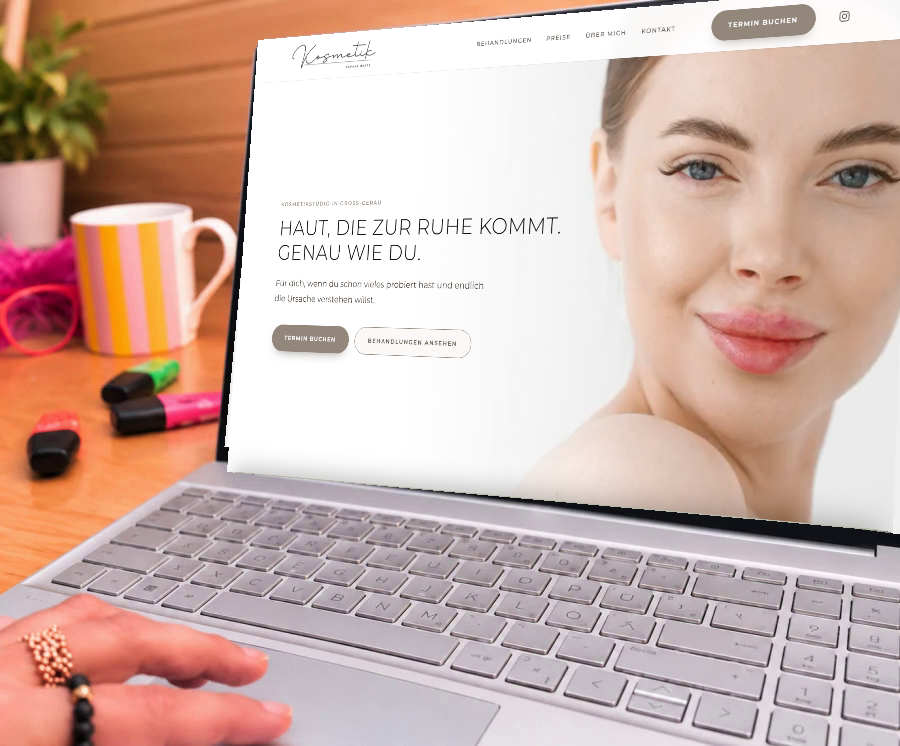
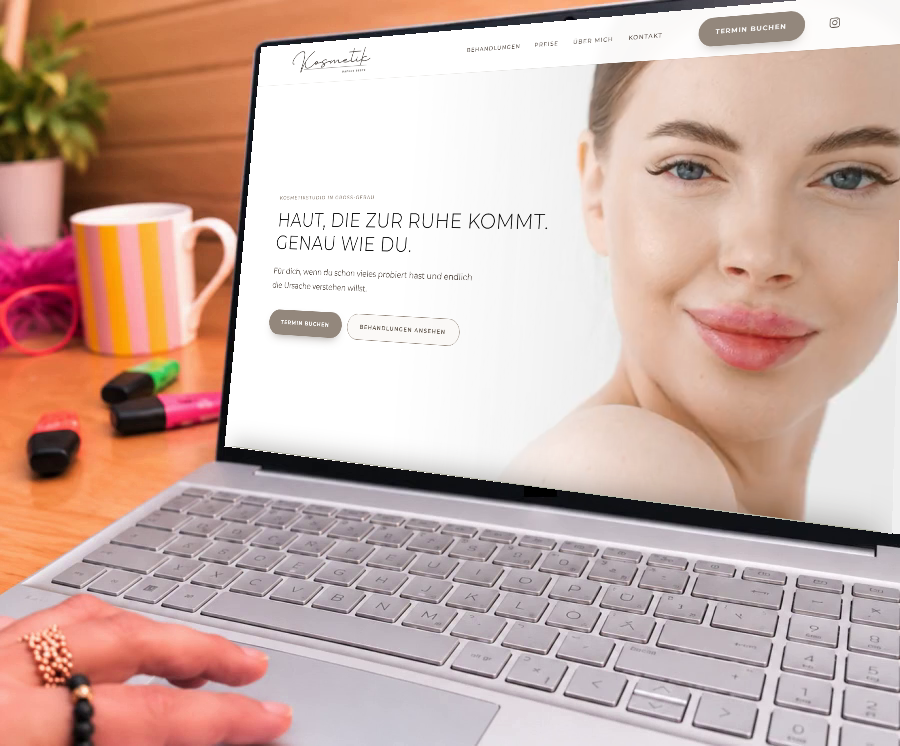
Daphne: Geschafft, Laptop, Danke (ohneZahlen), Laptop-Bild gerade eingepasst

diff --git a/daphne/index.html b/daphne/index.html
@@ -16,7 +16,7 @@
 /* ============================================================
    DAPHNE BESTE  ·  KOSMETIK DAPHNE BESTE
    Stand 23.10.2026, von Simone freigegeben.
-   Abgespeckt ohne Folie 4, Schlusswort B freigegeben. Offen: Datum = Umstell-Tag prüfen.
+   Abgespeckt: Geschafft → Laptop → Danke, Schlusswort B freigegeben. Offen: Datum = Umstell-Tag prüfen.
    ============================================================ */
 
 window.KUNDIN = {
@@ -67,12 +67,14 @@ window.KUNDIN = {
   /* Abgespeckt (Simone 23.10.2026): keine Folie 4 mit Ausblick,
      Daphne will selbst pflegen und nichts dazubuchen. */
   ohneAusblick: true,
+  /* Auch ohne Zahlen-Folie (Simone 23.10.): Geschafft → Laptop → Danke */
+  ohneZahlen: true,
 
   /* SCHLUSSWORT: Fassung B, von Simone gewählt 23.10.2026 */
   schlusswort: 'Danke für dein Vertrauen, Daphne!\nGanz viel Erfolg für dein Studio!'
 };
 </script>
 
-<script src="../tool/werkzeug.js?v=20261023b"></script>
+<script src="../tool/werkzeug.js?v=20261023d"></script>
 </body>
 </html>

diff --git a/tool/werkzeug.js b/tool/werkzeug.js
@@ -466,6 +466,12 @@
     var nummer = document.querySelector('.folie--nacht .block-nummer');
     if (nummer) nummer.style.display = 'none';
   }
+  /* Ohne Zahlen (Simone, 23.10.2026, Daphne): ohneZahlen: true lässt
+     Folie 3 „Das hast du schon“ weg. Ablauf dann Geschafft → Laptop → Danke. */
+  if (K.ohneZahlen) {
+    var teil1 = document.querySelector('.folie--nacht');
+    if (teil1) teil1.parentNode.removeChild(teil1);
+  }
 
   var folien = [];
   var jetzigeFolie = -1;
